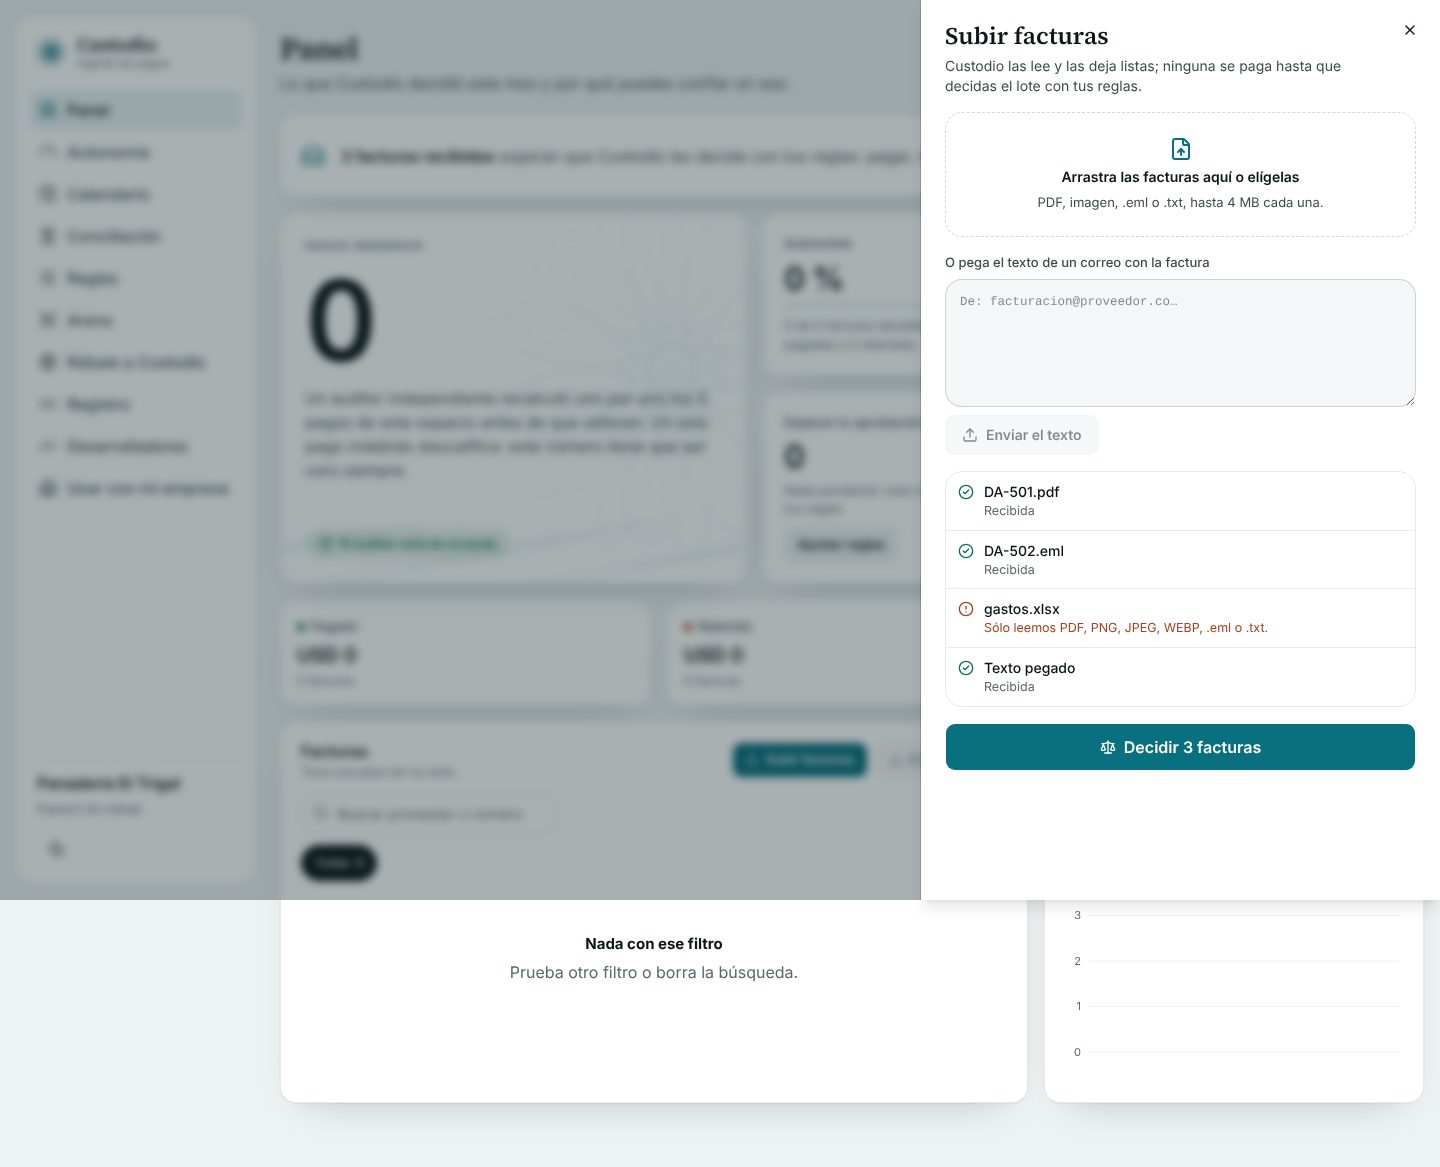
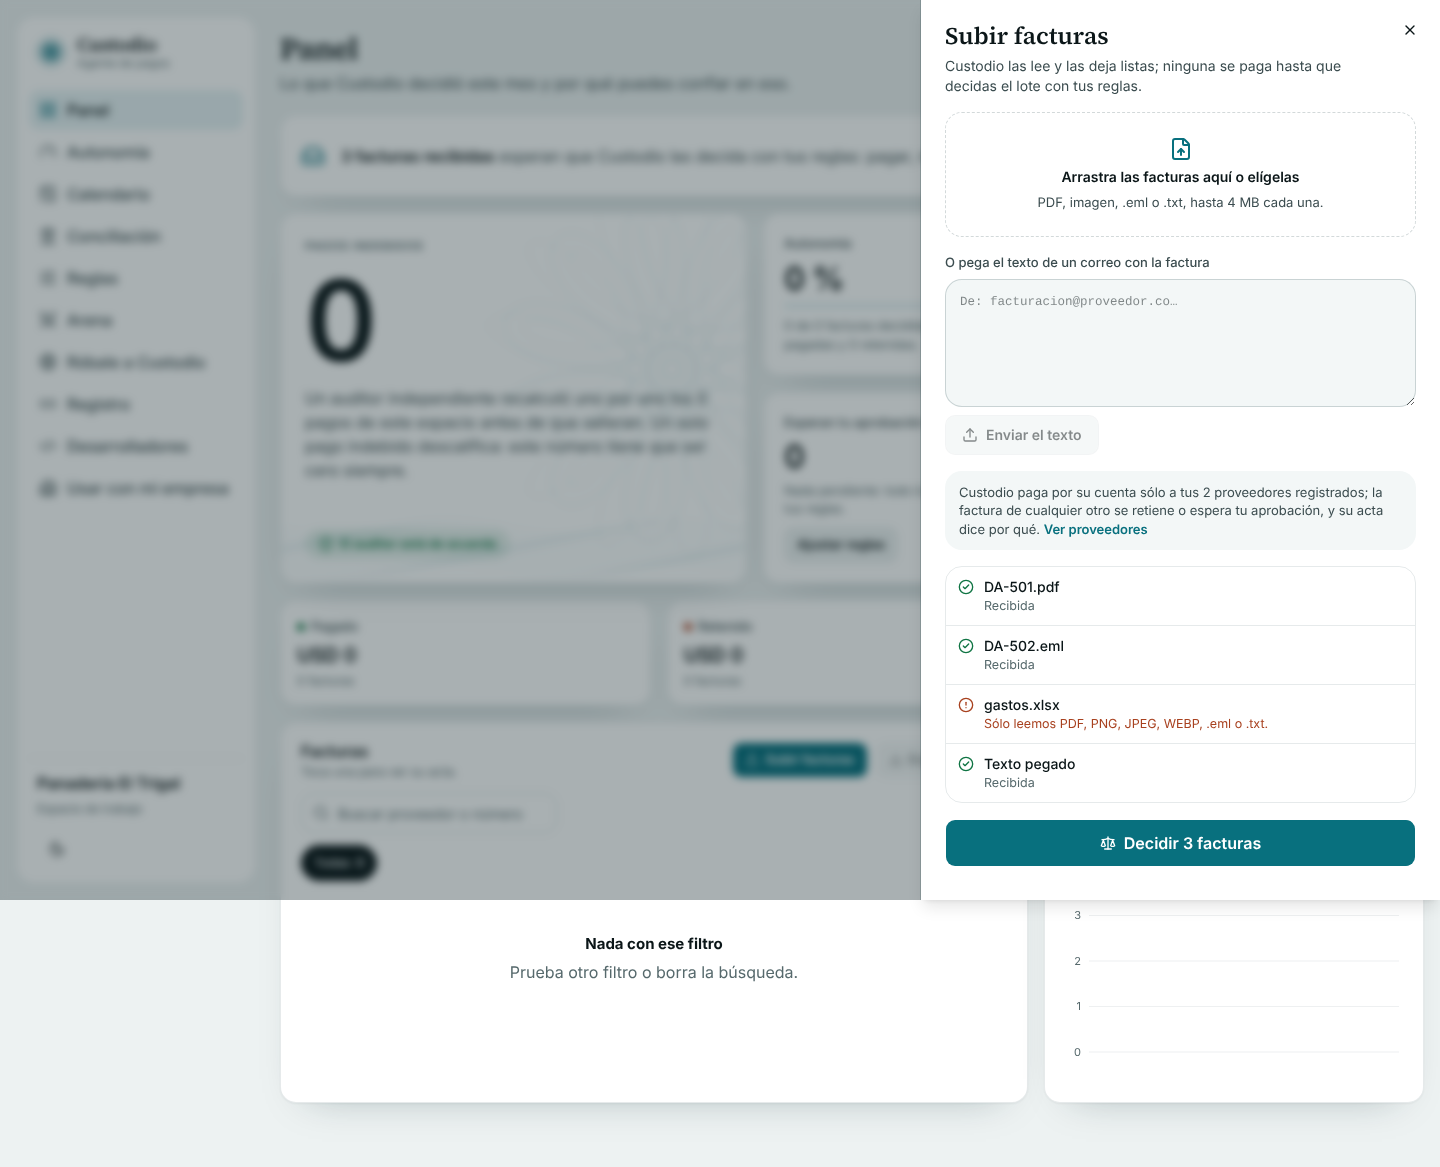
web: tell the uploader that only registered suppliers are paid on their own

Changed region(s): [[0.6562, 0.401, 1.0, 0.7404]]

diff --git a/apps/web/src/components/intake/upload-dialog.tsx b/apps/web/src/components/intake/upload-dialog.tsx
@@ -1,13 +1,14 @@
 "use client";
 
 import { CheckCircle2, CircleAlert, FileUp, LoaderCircle, Scale, Upload } from "lucide-react";
+import Link from "next/link";
 import { useId, useRef, useState, useSyncExternalStore, type DragEvent } from "react";
 import { toast } from "sonner";
 import { Button } from "@/components/ui/button";
 import { Sheet, SheetContent, SheetDescription, SheetTitle } from "@/components/ui/sheet";
 import type { InvoiceInput } from "@/lib/api/client";
 import { messageOf } from "@/lib/api/errors";
-import { useProcessInvoices, useUploadInvoice, useWorkspaceSummary } from "@/lib/api/hooks";
+import { usePolicy, useProcessInvoices, useUploadInvoice, useWorkspaceSummary } from "@/lib/api/hooks";
 import { cn } from "@/lib/utils";
 import { ACCEPTED_INVOICES, invoiceInputOf, type PreparedInvoice } from "./intake";
 
@@ -53,6 +54,21 @@ function Progress({ rows }: { rows: Row[] }) {
         </li>
       ))}
     </ul>
+  );
+}
+
+/** Custodio only pays registered suppliers to their registered accounts on its own (R3, R4): say so before the upload, so a held invoice is no surprise. */
+function SuppliersNote() {
+  const suppliers = usePolicy().data?.beneficiaries.filter((b) => b.allowed).length;
+  if (suppliers === undefined) return null;
+  return (
+    <p className="rounded-xl bg-surface-2 px-3.5 py-3 text-[13px] text-ink-2">
+      Custodio paga por su cuenta sólo a tus {suppliers} {suppliers === 1 ? "proveedor registrado" : "proveedores registrados"}; la
+      factura de cualquier otro se retiene o espera tu aprobación, y su acta dice por qué.{" "}
+      <Link href="/reglas" className="font-semibold text-brand underline-offset-4 hover:underline">
+        Ver proveedores
+      </Link>
+    </p>
   );
 }
 
@@ -164,6 +180,7 @@ function UploadForm({ onDecided }: { onDecided: () => void }) {
           <Upload aria-hidden /> Enviar el texto
         </Button>
       </div>
+      <SuppliersNote />
       <Progress rows={rows} />
       {toDecide > 0 && !busy ? (
         <Button size="lg" onClick={() => void decide()} disabled={process.isPending}>

diff --git a/apps/web/e2e/empresa.e2e.ts b/apps/web/e2e/empresa.e2e.ts
@@ -122,6 +122,7 @@ test("a real company sets up, uploads its own invoices, decides them and exports
       .getByRole("button", { name: "Subir facturas" })
       .click();
     const dialog = page.getByRole("dialog", { name: "Subir facturas" });
+    await expect(dialog).toContainText("sólo a tus 2 proveedores registrados");
     await dialog.locator('input[type="file"]').setInputFiles([
       {
         name: "DA-501.pdf",

diff --git a/docs/lanes/reports/L18.md b/docs/lanes/reports/L18.md
@@ -12,6 +12,7 @@ Rama: `lane/L18-empresa-real` (desde `main` en `ee5c789`).
    - validación previa con los límites de la API (4 MB, tipos de `DOCUMENT_MEDIA_TYPES`); `.eml` y `.txt` se envían como `text` (la API rechazaría `message/rfc822` como archivo);
    - envío uno a uno (la API limita llamadas al modelo por minuto), avance por archivo («En cola», «Enviando…», «Recibida») y el error legible de la API por archivo;
    - al final, «Decidir N facturas» llama a `POST /invoices/process`. Cliente: `uploadInvoice` en `CustodioApi` (live y mock) + hook `useUploadInvoice` (React Query).
+   - Una nota en el diálogo avisa que Custodio paga por su cuenta sólo a los N proveedores registrados y enlaza a /reglas: la factura de un proveedor no registrado se retiene o espera aprobación (R3/R4), y su acta dice por qué. `/empezar` ya exige al menos un proveedor antes de terminar.
    - El diálogo vive en un host estable del panel (`UploadDialog`): el estado vacío se desmonta con la primera factura recibida y, si no, se llevaba el diálogo consigo (lo encontró el e2e).
 3. **Estado vacío en modo real** (`components/panel/empty-inbox.tsx`): sin decisiones y sin facturas pendientes, el panel muestra «Aún no hay facturas: súbelas o reenvíalas» con «Subir facturas» como botón principal. La demo nunca llega vacía (trae facturas pendientes), así que no lo ve.
 4. **Exportar CSV** (`components/panel/decisions-csv.ts`, `export-csv.tsx`, `list-actions.tsx`): en la lista de facturas, descarga lo visible (filtro y búsqueda aplicados) en el navegador, con `proveedor,numero,monto,moneda,estado,regla_decisiva,fecha,id_transferencia`, RFC 4180, BOM para Excel, monto como número y fecha ISO.
@@ -29,6 +30,8 @@ En `dashboard.tsx` y `decision-list.tsx` sólo hay inserciones de una línea (im
 - Capturas en `docs/lanes/reports/L18/`: `landing`, `panel-vacio`, `subir`, `panel` a 1440 y 390 px.
 
 ## Qué NO se verificó
+
+- No hay forma de agregar proveedores a un espacio que ya existe (en `/reglas` sólo se permiten o bloquean); `/empezar` crea un espacio nuevo. Queda pendiente para otro carril: importar un CSV en `/reglas` y aplicarlo con `PUT /policy`.
 
 - Lectura con modelos reales (el e2e usa los dobles deterministas); tests `live`: NO MEDIDO en este carril.
 - Facturas ilegibles (respuesta 503 `reading_unavailable`): el diálogo muestra el mensaje de la API, pero no hay e2e de ese caso.
